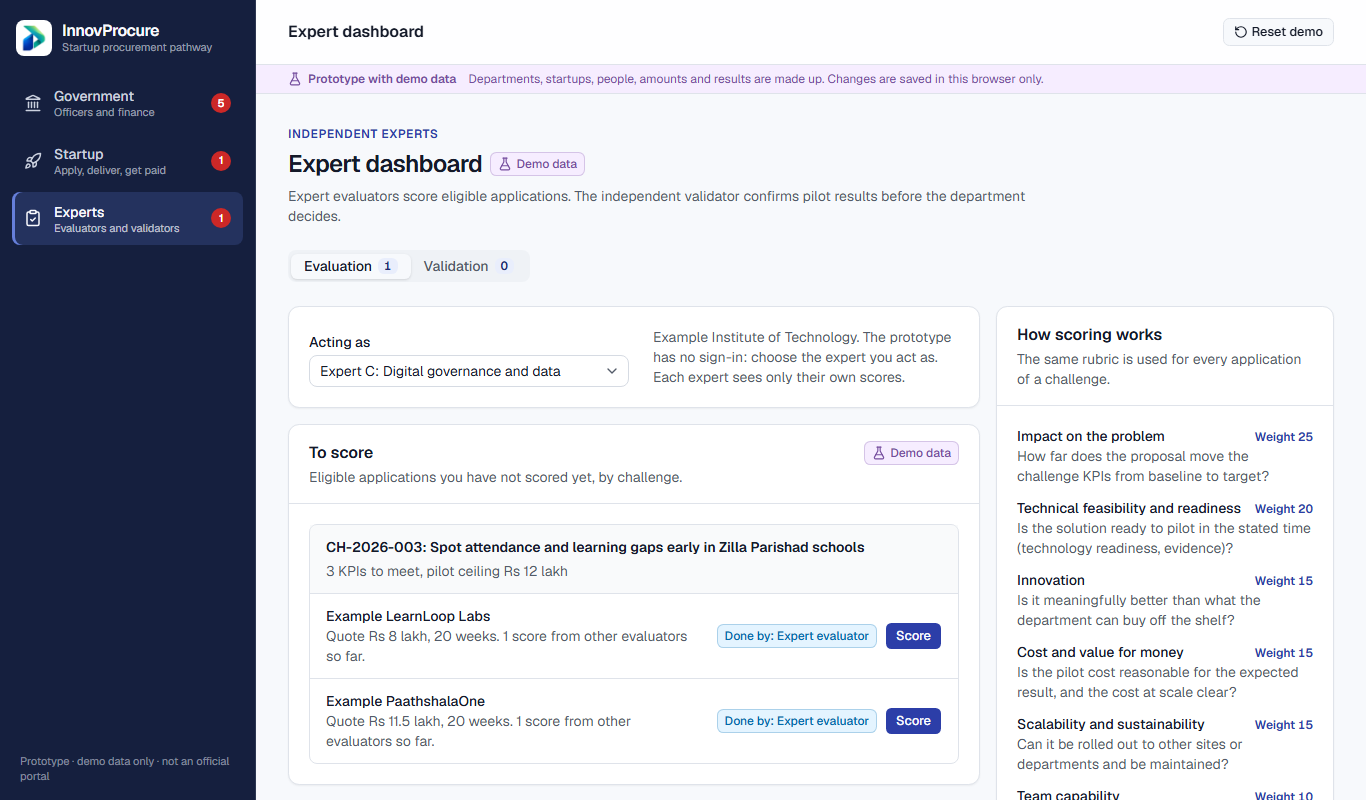
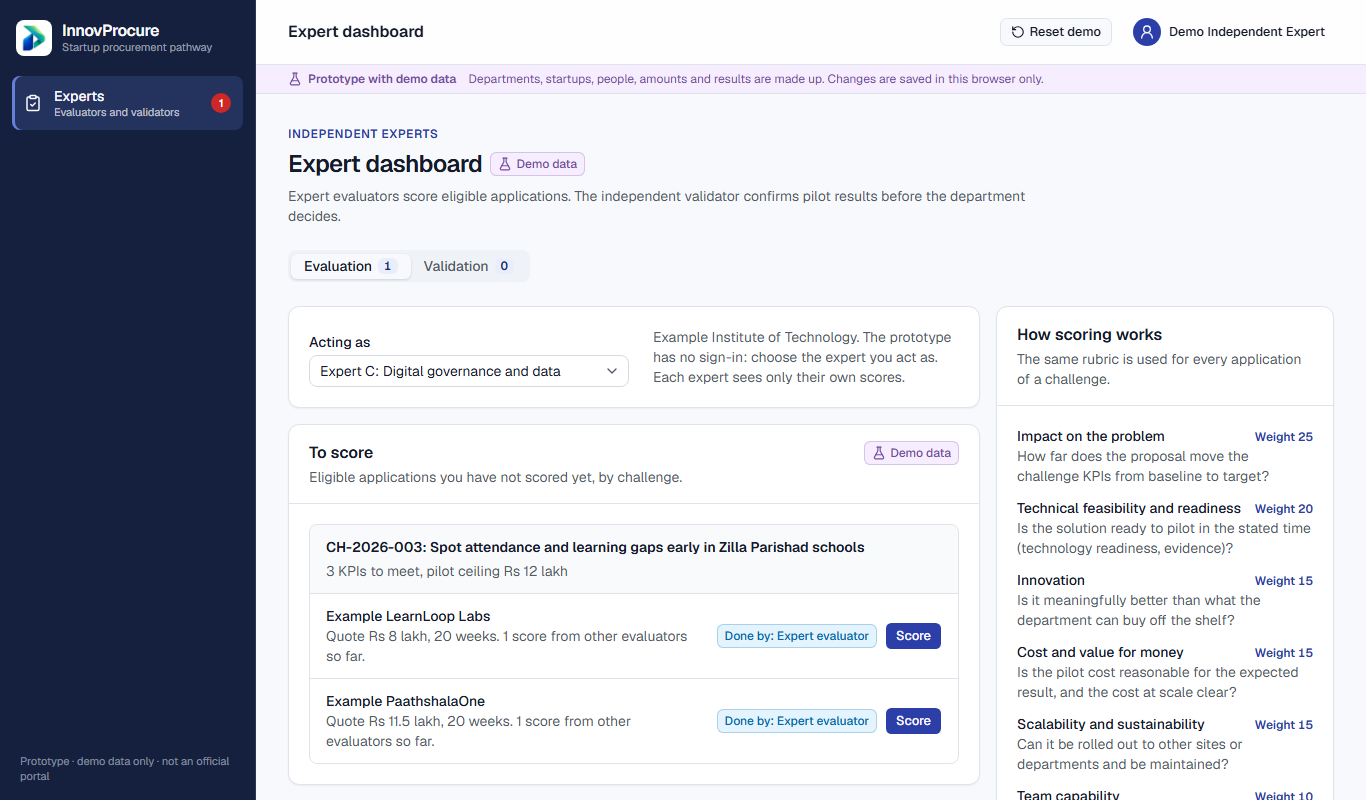
Sign-in: switch account from in-app links, keep tabs in step, refresh screenshots

Changed region(s): [[0.0, 0.0938, 0.1845, 0.3125], [0.8302, 0.0, 0.9839, 0.0625], [0.7379, 0.0312, 0.7994, 0.0625]]

diff --git a/src/pages/LoginPage.tsx b/src/pages/LoginPage.tsx
@@ -1,6 +1,6 @@
 // Sign-in screen (shown without the app shell). One demo account per dashboard.
 import { ArrowRight, ClipboardCheck, FlaskConical, Landmark, Rocket } from 'lucide-react'
-import { useState, type FormEvent } from 'react'
+import { useRef, useState, type FormEvent } from 'react'
 import { Navigate, useLocation, useNavigate } from 'react-router-dom'
 import { toast } from 'sonner'
 
@@ -35,6 +35,7 @@ export default function LoginPage() {
   const [email, setEmail] = useState('')
   const [password, setPassword] = useState('')
   const [error, setError] = useState<string | null>(null)
+  const submitRef = useRef<HTMLButtonElement>(null)
 
   if (session) return <Navigate to={destination(session, from)} replace />
 
@@ -50,7 +51,7 @@ export default function LoginPage() {
 
   function onSubmit(event: FormEvent<HTMLFormElement>) {
     event.preventDefault()
-    if (!email.trim() || !password) {
+    if (!email.trim() || !password.trim()) {
       setError('Enter the email and the password.')
       return
     }
@@ -59,13 +60,13 @@ export default function LoginPage() {
 
   return (
     <div className="grid min-h-screen grid-cols-1 bg-background lg:grid-cols-[minmax(0,5fr)_minmax(0,6fr)]">
-      <aside className="flex min-w-0 flex-col justify-between gap-8 bg-sidebar px-6 py-8 text-sidebar-foreground sm:px-10 lg:px-12 lg:py-12">
+      <aside className="flex min-w-0 flex-col justify-between gap-5 bg-sidebar px-6 py-6 text-sidebar-foreground sm:gap-8 sm:px-10 sm:py-8 lg:px-12 lg:py-12">
         <Logo />
         <div className="max-w-xl space-y-5">
           <p className="text-xs font-semibold tracking-wider text-sidebar-foreground/70 uppercase">
             Startup-friendly public procurement
           </p>
-          <h1 className="text-3xl leading-tight font-semibold tracking-tight text-sidebar-primary xl:text-4xl">
+          <h1 className="text-2xl leading-tight font-semibold tracking-tight text-sidebar-primary sm:text-3xl xl:text-4xl">
             One pathway from a department&apos;s problem to a tested, paid and scaled startup
             solution
           </h1>
@@ -90,8 +91,8 @@ export default function LoginPage() {
         </p>
       </aside>
 
-      <main className="flex min-w-0 items-center justify-center px-4 py-10 sm:px-8">
-        <div className="w-full max-w-md space-y-8">
+      <main className="flex min-w-0 items-center justify-center px-4 py-6 sm:px-8">
+        <div className="w-full max-w-md space-y-6">
           <div className="space-y-1.5">
             <h2 className="text-2xl font-semibold tracking-tight">Sign in</h2>
             <p className="text-sm text-muted-foreground">
@@ -139,7 +140,7 @@ export default function LoginPage() {
                 {error}
               </p>
             )}
-            <Button type="submit" className="w-full">
+            <Button ref={submitRef} type="submit" className="w-full">
               Sign in <ArrowRight aria-hidden />
             </Button>
           </form>
@@ -154,13 +155,13 @@ export default function LoginPage() {
                 type a real password here.
               </p>
             </div>
-            <ul className="space-y-3">
+            <ul className="space-y-2">
               {DEMO_ACCOUNTS.map((account) => {
                 const Icon = ICONS[account.dashboard]
                 return (
                   <li
                     key={account.dashboard}
-                    className="min-w-0 rounded-xl border bg-card p-4 shadow-xs"
+                    className="min-w-0 rounded-xl border bg-card p-3 shadow-xs"
                   >
                     <div className="flex min-w-0 items-start gap-3">
                       <span className="grid size-9 shrink-0 place-items-center rounded-lg bg-accent text-primary">
@@ -193,6 +194,8 @@ export default function LoginPage() {
                           setEmail(account.email)
                           setPassword(account.password)
                           setError(null)
+                          // Brings the filled form back into view on a phone.
+                          submitRef.current?.focus()
                         }}
                       >
                         Fill the form

diff --git a/src/components/layout/RequireDashboard.tsx b/src/components/layout/RequireDashboard.tsx
@@ -1,14 +1,23 @@
-// Shows a dashboard only to its own account. Any other account sees whose dashboard it is
-// and a one-click switch (a demo shortcut: in production the other person would sign in).
+// Shows a dashboard only to its own account.
+//
+// Demo shortcuts, because one presenter plays every side: a link inside the app that leads to
+// another side's dashboard switches to that account in the same click; an address typed or
+// reloaded shows whose dashboard it is and offers the switch. In production the other person
+// would sign in with their own account.
 import { ArrowLeftRight, Lock } from 'lucide-react'
-import type { ReactNode } from 'react'
-import { Link } from 'react-router-dom'
+import { useEffect, type ReactNode } from 'react'
+import { Link, NavigationType, useNavigationType } from 'react-router-dom'
 import { toast } from 'sonner'
 
 import { Button } from '@/components/ui/button'
 import { DASHBOARD_NAMES, accountFor } from '@/lib/auth/accounts'
 import { switchAccount, useSession } from '@/lib/auth/session'
 import type { Dashboard } from '@/lib/demo/selectors'
+
+/** After a switch the keyboard focus moves to the page content instead of being lost. */
+function focusMain() {
+  requestAnimationFrame(() => document.getElementById('main')?.focus())
+}
 
 export function RequireDashboard({
   dashboard,
@@ -18,8 +27,21 @@ export function RequireDashboard({
   children: ReactNode
 }) {
   const session = useSession()
-  if (!session || session.dashboard === dashboard) return <>{children}</>
+  const cameByLink = useNavigationType() === NavigationType.Push
   const owner = accountFor(dashboard)
+  const other = session !== null && session.dashboard !== dashboard
+  const follow = other && cameByLink
+
+  useEffect(() => {
+    if (!follow) return
+    switchAccount(dashboard)
+    // The id keeps it to one toast if the effect runs twice.
+    toast.success(`Signed in as ${owner.name}`, { id: 'account-switch' })
+    focusMain()
+  }, [follow, dashboard, owner.name])
+
+  if (!session || !other) return <>{children}</>
+  if (follow) return null
   return (
     <div className="mx-auto max-w-xl space-y-4 rounded-xl border bg-card p-6 text-center shadow-xs sm:p-8">
       <span className="mx-auto grid size-12 place-items-center rounded-full bg-accent text-primary">
@@ -38,7 +60,8 @@ export function RequireDashboard({
         <Button
           onClick={() => {
             switchAccount(dashboard)
-            toast.success(`Signed in as ${owner.name}`)
+            toast.success(`Signed in as ${owner.name}`, { id: 'account-switch' })
+            focusMain()
           }}
         >
           <ArrowLeftRight aria-hidden /> Switch to {owner.name}

diff --git a/src/lib/auth/session.ts b/src/lib/auth/session.ts
@@ -3,7 +3,7 @@
 
 import { useSyncExternalStore } from 'react'
 
-import { DEMO_ACCOUNTS, type Account } from '@/lib/auth/accounts'
+import { accountFor, DEMO_ACCOUNTS, type Account } from '@/lib/auth/accounts'
 import type { Dashboard } from '@/lib/demo/selectors'
 
 const STORAGE_KEY = 'innovprocure.session.v1'
@@ -33,6 +33,14 @@ function commit(account: Account | null) {
   listeners.forEach((listener) => listener())
 }
 
+// Another tab signed in, switched account or signed out: follow it, so two tabs never
+// disagree about who is signed in. One browser holds one account at a time.
+window.addEventListener('storage', (event) => {
+  if (event.key !== STORAGE_KEY && event.key !== null) return
+  current = load()
+  listeners.forEach((listener) => listener())
+})
+
 function subscribe(listener: () => void) {
   listeners.add(listener)
   return () => listeners.delete(listener)
@@ -45,8 +53,9 @@ export function useSession(): Account | null {
 
 /** Signs in with an email and password. Throws an Error with a plain message when wrong. */
 export function signIn(email: string, password: string): Account {
+  // Spaces around a pasted email or password are ignored.
   const account = DEMO_ACCOUNTS.find(
-    (a) => a.email === email.trim().toLowerCase() && a.password === password,
+    (a) => a.email === email.trim().toLowerCase() && a.password === password.trim(),
   )
   if (!account) throw new Error('The email or password is not correct.')
   commit(account)
@@ -54,10 +63,8 @@ export function signIn(email: string, password: string): Account {
 }
 
 /** Demo shortcut: switch to the account of another dashboard without typing its password. */
-export function switchAccount(dashboard: Dashboard): Account {
-  const account = DEMO_ACCOUNTS.find((a) => a.dashboard === dashboard) ?? DEMO_ACCOUNTS[0]
-  commit(account)
-  return account
+export function switchAccount(dashboard: Dashboard) {
+  commit(accountFor(dashboard))
 }
 
 export function signOut() {

diff --git a/src/lib/auth/accounts.ts b/src/lib/auth/accounts.ts
@@ -14,7 +14,6 @@ export type Account = {
   password: string
   /** Who the presenter is when signed in. */
   name: string
-  organisation: string
   /** What this account can do, in one line. */
   can: string
   home: string
@@ -26,7 +25,6 @@ export const DEMO_ACCOUNTS: Account[] = [
     email: 'officer@innovprocure.demo',
     password: 'Govt@2026',
     name: 'Demo Government Officer',
-    organisation: 'Department, innovation cell and finance',
     can: 'Publish challenges, screen and select startups, run pilots, pay milestones, decide on scale-up.',
     home: '/government',
   },
@@ -35,7 +33,6 @@ export const DEMO_ACCOUNTS: Account[] = [
     email: 'startup@innovprocure.demo',
     password: 'Startup@2026',
     name: 'Demo Startup Founder',
-    organisation: 'A recognised startup',
     can: 'See open calls, apply, deliver milestones and track payments.',
     home: '/startup',
   },
@@ -44,7 +41,6 @@ export const DEMO_ACCOUNTS: Account[] = [
     email: 'expert@innovprocure.demo',
     password: 'Expert@2026',
     name: 'Demo Independent Expert',
-    organisation: 'Evaluators and validators',
     can: 'Score applications against the rubric and validate pilot results.',
     home: '/experts',
   },

diff --git a/src/components/RouteError.tsx b/src/components/RouteError.tsx
@@ -38,8 +38,8 @@ export function RouteError() {
             <RefreshCw aria-hidden /> Reload
           </Button>
           <Button variant="outline" asChild>
-            <Link to="/government" reloadDocument>
-              <House aria-hidden /> Go to the Government dashboard
+            <Link to="/" reloadDocument>
+              <House aria-hidden /> Go to my dashboard
             </Link>
           </Button>
         </div>

diff --git a/src/components/layout/TopBar.tsx b/src/components/layout/TopBar.tsx
@@ -88,7 +88,7 @@ function AccountMenu() {
               onSelect={() => {
                 switchAccount(account.dashboard)
                 navigate(account.home)
-                toast.success(`Signed in as ${account.name}`)
+                toast.success(`Signed in as ${account.name}`, { id: 'account-switch' })
               }}
             >
               <ArrowLeftRight aria-hidden /> {DASHBOARD_NAMES[account.dashboard]}

diff --git a/README.md b/README.md
@@ -96,6 +96,8 @@ Other commands:
 
 ## Demo accounts
 
+![Sign-in page](docs/screenshots/sign-in.png)
+
 Each account opens its own dashboard. The same accounts work on the live demo.
 
 | Dashboard  | Email                       | Password       |
